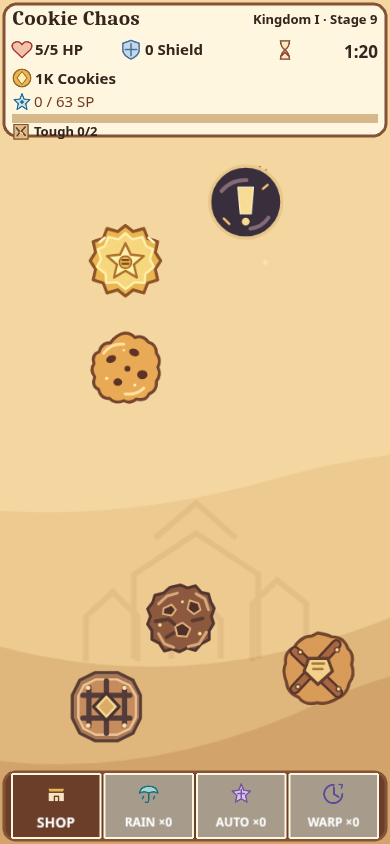
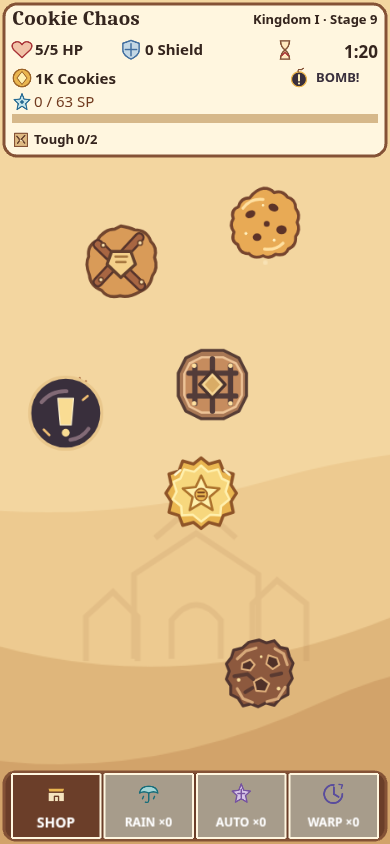
fix: keep Tough HUD row inside panel

diff --git a/src/main.ts b/src/main.ts
@@ -10,7 +10,7 @@ import { UPGRADES, UPGRADE_IDS, UpgradeManager, type UpgradeId } from './upgrade
 import { hardHpForStage, kingdomName } from './cycle';
 import { TimeWarp, timeWarpCost } from './time-warp';
 import { ABILITIES, ABILITY_IDS, AbilityManager, abilityCost, autoTarget, freeAbilityForBossStage, type AbilityId } from './abilities';
-import { calculateGameLayout } from './ui-layout';
+import { calculateGameLayout, HUD_TOUGH_ROW } from './ui-layout';
 import './style.css';
 
 type ShopRow = { button: Phaser.GameObjects.Rectangle; label: Phaser.GameObjects.Text;
@@ -586,11 +586,12 @@ class GameScene extends Phaser.Scene {
       `${formatAmount(this.stage.progress)} / ${formatAmount(this.stage.target)} SP`);
     this.toughText.setText(bossFight ? '' : this.stage.toughRequired ?
       missingTough > 0 && this.stage.progress === this.stage.target ?
-        `Break ${missingTough} more Tough Cookie${missingTough === 1 ? '' : 's'}` :
+        layout.compact ? `Break ${missingTough} Tough` :
+          `Break ${missingTough} more Tough Cookie${missingTough === 1 ? '' : 's'}` :
         `Tough ${this.stage.toughDestroyed}/${this.stage.toughRequired}` :
       this.stage.isBossCheckpoint ? 'Boss ahead' : '');
     this.icons.get('tough')?.setVisible(!!this.toughText.text && !layout.compact && !bossFight)
-      .setPosition(21, 132).setDisplaySize(20, 20);
+      .setPosition(21, HUD_TOUGH_ROW.iconY).setDisplaySize(HUD_TOUGH_ROW.iconSize, HUD_TOUGH_ROW.iconSize);
     this.progressFill.setSize(this.progressWidth * (bossFight ? this.boss!.hp / this.boss!.config.bodyHp : this.stage.progressPercent / 100), 10)
       .setFillStyle(bossFight ? 0xa93438 : 0x276b93);
     this.bossStatusText.setText(bossFight ? this.boss!.phase === 'VULNERABLE' ? 'ARMOR BROKEN · 2× DAMAGE' :
@@ -750,7 +751,7 @@ class GameScene extends Phaser.Scene {
     this.progressFill.setPosition(12, compact ? 78 : 114).setSize(this.progressWidth *
       (bossFight && this.boss ? this.boss.hp / this.boss.config.bodyHp : this.stage.progressPercent / 100), 9)
       .setFillStyle(bossFight ? 0xa93438 : 0x276b93);
-    this.toughText.setPosition(compact ? fieldRight - 12 : 34, compact ? 55 : 124)
+    this.toughText.setPosition(compact ? fieldRight - 12 : 34, compact ? 55 : HUD_TOUGH_ROW.textY)
       .setOrigin(compact ? 1 : 0, 0).setFontSize(compact ? 12 : 13);
     this.statsText.setVisible(false);
     const icon = (name: string, x: number, y: number, size: number, show = true) => {
@@ -761,7 +762,7 @@ class GameScene extends Phaser.Scene {
     icon('shield', compact ? 124 : 131, compact ? 40 : 50, 23);
     icon('currency', 22, 78, 22, !compact);
     icon('stage-points', 22, 102, 20, !compact);
-    icon('tough', 21, 131, 20, !!this.toughText.text && !compact && !bossFight);
+    icon('tough', 21, HUD_TOUGH_ROW.iconY, HUD_TOUGH_ROW.iconSize, !!this.toughText.text && !compact && !bossFight);
     this.updateBombNotice();
 
     this.bossPanel.setPosition(0, playArea.bottom).setSize(fieldRight, frame.bossPanelHeight)

diff --git a/src/ui-layout.test.ts b/src/ui-layout.test.ts
@@ -1,10 +1,20 @@
 import { describe, expect, it } from 'vitest';
 import { RULES, SpawnManager } from './game';
-import { calculateGameLayout } from './ui-layout';
+import { calculateGameLayout, HUD_TOUGH_ROW } from './ui-layout';
 
 const viewports = [[320, 320], [360, 640], [390, 844], [568, 320], [1280, 720]] as const;
 
 describe('Cookie Kingdom layout', () => {
+  it.each([[360, 640], [390, 844], [1280, 720]])('keeps the Tough row below SP and inside HUD at %i×%i', (width, height) => {
+    const frame = calculateGameLayout(width, height);
+    const panelBottom = frame.hudHeight - 4;
+    expect(HUD_TOUGH_ROW.textY).toBeGreaterThanOrEqual(123 + 8); // SP bar ends at y=123.
+    expect(HUD_TOUGH_ROW.textY + 18).toBeLessThanOrEqual(panelBottom - 6);
+    expect(HUD_TOUGH_ROW.iconY - HUD_TOUGH_ROW.iconSize / 2).toBeGreaterThanOrEqual(123 + 8);
+    expect(HUD_TOUGH_ROW.iconY + HUD_TOUGH_ROW.iconSize / 2).toBeLessThanOrEqual(panelBottom - 6);
+    expect(frame.playArea.top).toBe(frame.hudHeight);
+  });
+
   it.each(viewports)('keeps the first interactive cookie clear of chrome at %i×%i', (width, height) => {
     const frame = calculateGameLayout(width, height);
     const cookie = new SpawnManager(() => 0.5).spawn({ width, height }, 0, RULES.radius, frame.playArea,

diff --git a/src/ui-layout.ts b/src/ui-layout.ts
@@ -11,6 +11,8 @@ export type GameLayout = {
   shop: { x: number; y: number; width: number; height: number };
 };
 
+export const HUD_TOUGH_ROW = { textY: 132, iconY: 140, iconSize: 18 } as const;
+
 /** The same bounds position the visible chrome and constrain cookie spawning. */
 export function calculateGameLayout(width: number, height: number, bossFight = false): GameLayout {
   if (!Number.isFinite(width) || !Number.isFinite(height) || width <= 0 || height <= 0) {
@@ -18,7 +20,7 @@ export function calculateGameLayout(width: number, height: number, bossFight = f
   }
   const sideShop = width >= 960 && height >= 480 && !bossFight;
   const compact = height < 420;
-  const hudHeight = compact ? 94 : width < 480 ? 140 : 132;
+  const hudHeight = compact ? 94 : 160;
   const dockHeight = compact ? 60 : 76;
   const bossPanelHeight = bossFight ? 48 : 0;
   const fieldRight = sideShop ? width - 336 : width;

diff --git a/docs/m10-c/README.md b/docs/m10-c/README.md
@@ -9,10 +9,10 @@ HUD e Kingdom Market Phaser seguono la [variante A approvata](../art-direction.m
 | Viewport | HUD | Campo di raccolta | Dock | Shop |
 |---|---:|---:|---:|---|
 | 320×320 | 94 px | 320×166 px | 60 px | Modale, 3 card per pagina |
-| 360×640 | 140 px | 360×424 px | 76 px | Modale |
-| 390×844 | 140 px | 390×628 px | 76 px | Modale |
+| 360×640 | 160 px | 360×404 px | 76 px | Modale |
+| 390×844 | 160 px | 390×608 px | 76 px | Modale |
 | 568×320 | 94 px | 568×166 px | 60 px | Modale, 3 card per pagina |
-| 1280×720 | 132 px | 944×512 px | 76 px | Sidebar 336 px |
+| 1280×720 | 160 px | 944×484 px | 76 px | Sidebar 336 px |
 
 La pagina compatta usa i pulsanti 44×44 per scorrere le card. Shop nascosto, card non acquistabili e abilità prive di cariche non hanno hitbox attive. Il bottone shop mobile è 44 px o più; i pulsanti del dock sono almeno 44 px di altezza. Il campo compatto ammette un Normal iniziale anche con la geometria esistente.
 
@@ -22,6 +22,7 @@ Catture Chrome headless, DPR 1, dal gioco Vite. Gli stati avanzati sono stati ra
 
 - Gameplay: [320×320](screenshots/gameplay-320x320.png), [360×640](screenshots/gameplay-360x640.png), [390×844](screenshots/gameplay-390x844.png), [568×320](screenshots/gameplay-568x320.png), [1280×720](screenshots/gameplay-1280x720.png).
 - Raccolta con [sei tipi](screenshots/collection-multiple-390x844.png), inclusa Bomb; bomba e indicatore HUD nello stage 4 a [390×844](screenshots/bomb-gameplay-390x844.png) e [320×320](screenshots/bomb-gameplay-320x320.png).
+- Correzione Tough HUD: [390×844](screenshots/tough-hud-390x844.png), [1280×720](screenshots/tough-hud-1280x720.png), [360×640](screenshots/tough-hud-360x640.png), [320×320](screenshots/tough-hud-320x320.png). Stage 9 con target `123456789012345678901234567890` SP in stato di prova per verificare numeri lunghi e messaggio Tough; nessuna modifica alle regole di produzione.
 - Shop: [OFFENSE 390](screenshots/shop-offense-390x844.png), [DEFENSE 390](screenshots/shop-defense-390x844.png), [SPECIAL 390](screenshots/shop-special-390x844.png), [BUY con fondi](screenshots/shop-buy-390x844.png), [OFFENSE 320](screenshots/shop-offense-320x320.png), [pagina 2 a 320](screenshots/shop-offense-page2-320x320.png), [OFFENSE 568](screenshots/shop-offense-568x320.png).
 - Boss: [Knight 390](screenshots/boss-knight-390x844.png), [parry Knight 390](screenshots/boss-parry-now-390x844.png), [Barbarian 568](screenshots/boss-barbarian-568x320.png), [warning 568](screenshots/boss-warning-568x320.png), [parry 568](screenshots/boss-parry-568x320.png).
 - [Dock attivo](screenshots/ability-active-390x844.png), [vittoria 390](screenshots/victory-390x844.png), [fallimento 390](screenshots/failure-390x844.png), [vittoria 320](screenshots/victory-320x320.png), [fallimento 320](screenshots/failure-320x320.png).
@@ -37,6 +38,8 @@ Catture Chrome headless, DPR 1, dal gioco Vite. Gli stati avanzati sono stati ra
 - Continue avvia Stage 2 con un cookie; Retry riavvia Stage 2 con un cookie. Nessuna eccezione JavaScript o errore console nei percorsi acquisiti.
 
 L'errore del primo script CDP era nel test: `UpgradeManager.level()` restituisce `bigint`, non serializzabile da `Runtime.evaluate({returnByValue:true})`. La conversione a stringa ha permesso di proseguire; nessuna modifica al gameplay è stata necessaria.
+
+La revisione del Checkpoint C ha rilevato che Tough invadeva il bordo inferiore dell'HUD. La placca non compatta ora è alta 160 px e la riga Tough occupa y=131–149, con almeno 7 px dal bordo interno; `calculateGameLayout()` sposta coerentemente il limite superiore della PlayArea. A 320×320 il messaggio è abbreviato in `Break N Tough` quando la barra è piena: anche con SP in notazione scientifica i due testi non si toccano. Chrome headless ha verificato i bounds Phaser, un cookie iniziale raggiungibile in ogni viewport e zero errori console.
 
 ## Confronto con i mockup A
 
